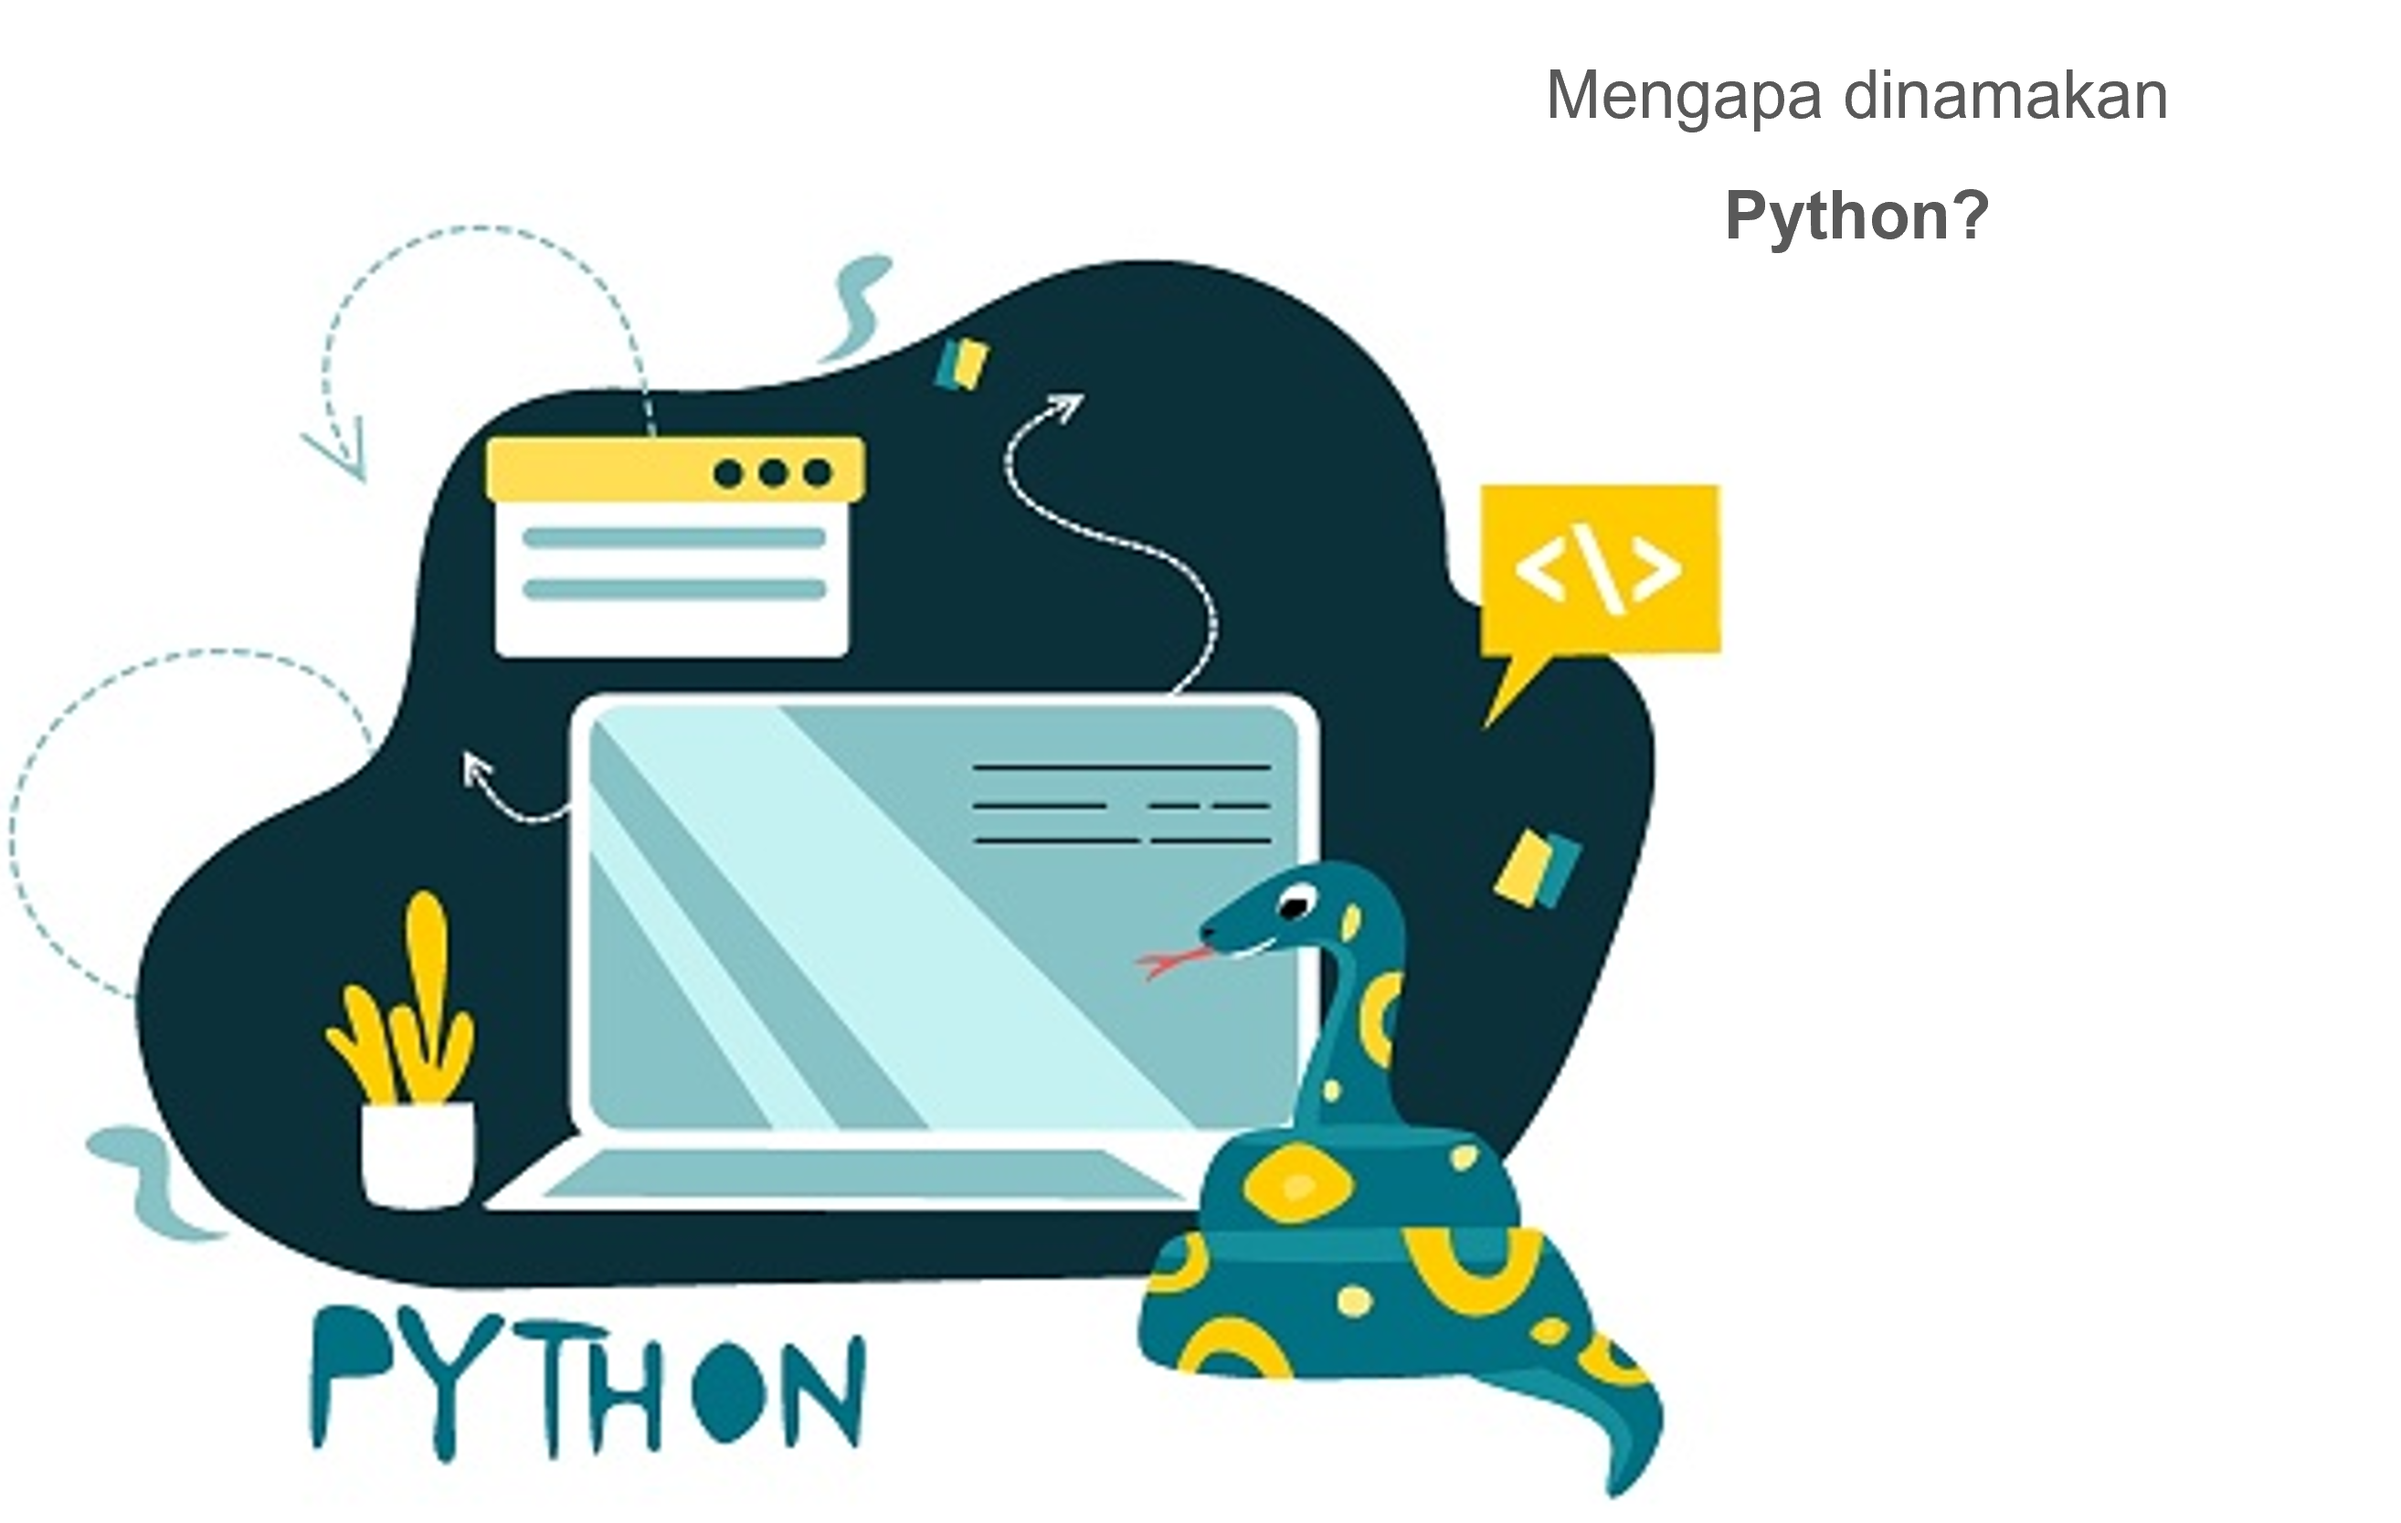
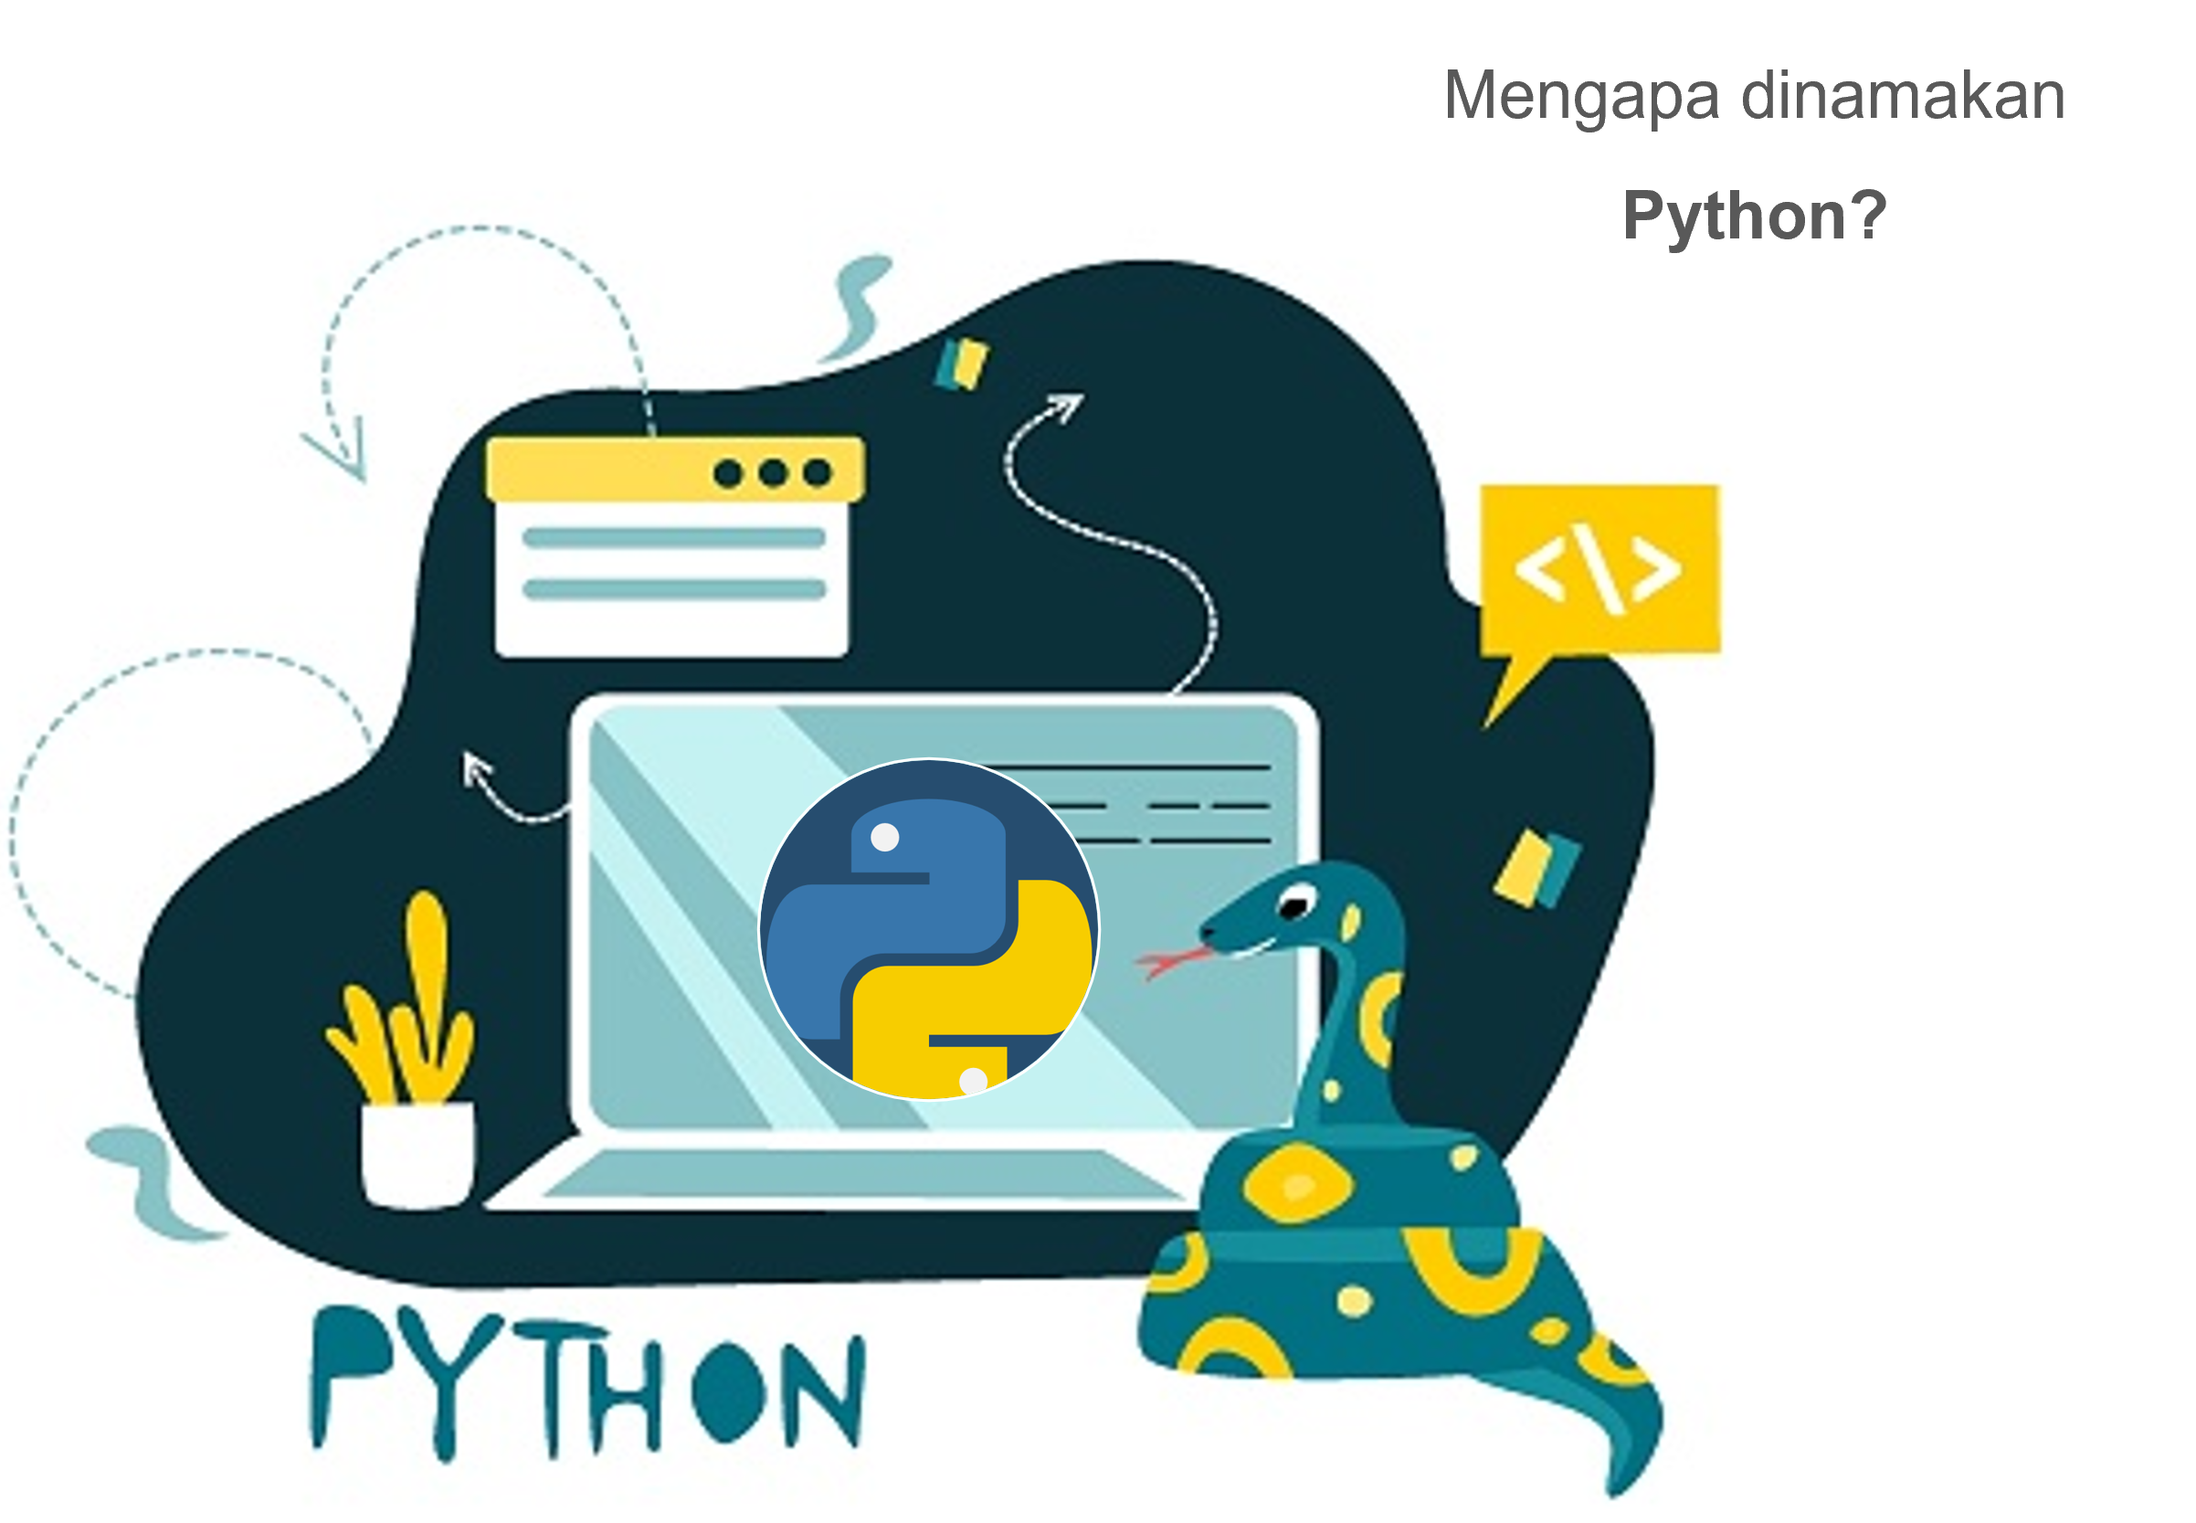
m

diff --git a/_book/pengenalan-python.html b/_book/pengenalan-python.html
@@ -197,7 +197,7 @@ code span.wa { color: #60a0b0; font-weight: bold; font-style: italic; } /* Warni
 <h2><span class="header-section-number">1.1</span> Sejarah<a href="pengenalan-python.html#sejarah" class="anchor-section" aria-label="Anchor link to header"></a></h2>
 <p><strong>Guido van Rossum</strong>, orang pertama kali yang mendesain Python di akhir tahun 1989, memulai projek ini saat masih di Centrum Wiskunde &amp; Informatice yang berpusat di Belanda. Awalnya, Guido bermaksud untuk memperbaiki sintak-sintak bermasalah pada Bahasa Pemrograman ABC yang pernah dikerjakan sebelumnya dan akhirnya terciptalah sebuah bahasa pemrograman yang lebih baik.</p>
 <center>
-<img src="https://github.com/sainzdata/Py_JNE/blob/main/images/python.png?raw=true" width="600" height="170">
+<img src="https://github.com/sainzdata/Py_JNE/blob/main/images/python.png?raw=true" width="600" height="400">
 </center>
 <p>Inspirasi nama Python diambil dari acara TV BBC yang berjudul “Monty Python’s Flying Circus”, karena Guido adalah penggemar berat acara tersebut. Selain itu, ia ingin memberikan nama yang pendek, unik, dan sedikit misterius untuk penemuannya.</p>
 <center>
